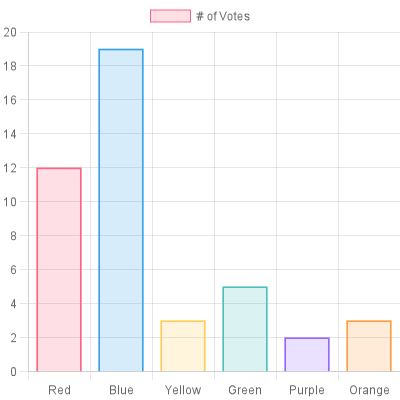
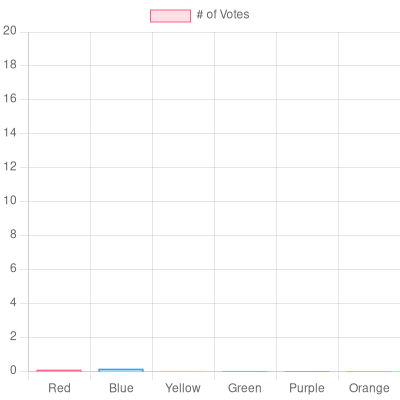
Fix render issue

diff --git a/dist/index.js b/dist/index.js
@@ -82,7 +82,7 @@ class ChartJSNodeCanvas {
      * @param configuration The Chart JS configuration for the chart to render.
      * @param mimeType A string indicating the image format. Valid options are `image/png`, `image/jpeg` (if node-canvas was built with JPEG support) or `raw` (unencoded ARGB32 data in native-endian byte order, top-to-bottom). Defaults to `image/png` for image canvases, or the corresponding type for PDF or SVG canvas.
      */
-    async renderToBuffer(configuration, mimeType = 'image/png') {
+    renderToBuffer(configuration, mimeType = 'image/png') {
         const chart = this.renderChart(configuration);
         return new Promise((resolve, reject) => {
             if (!chart.canvas) {
@@ -108,12 +108,13 @@ class ChartJSNodeCanvas {
         this.renderChart(configuration);
         return new Promise((resolve, reject) => {
             const check = () => {
+                var _a;
                 const { buffers, completed, error, options, urls } = this._animation;
                 if (error) {
                     reject(error);
                 }
                 else if (completed) {
-                    resolve((options === null || options === void 0 ? void 0 : options.renderType) === 'dataurl' ? urls : buffers);
+                    resolve(['dataurl', 'dataurlsync'].includes((_a = options === null || options === void 0 ? void 0 : options.renderType) !== null && _a !== void 0 ? _a : '') ? urls : buffers);
                 }
                 else {
                     setTimeout(() => check(), 200);
@@ -229,7 +230,7 @@ class ChartJSNodeCanvas {
         configuration.options = configuration.options || {};
         configuration.options.responsive = false;
         if (!this._animation) {
-            configuration.options.animation = this._animation;
+            configuration.options.animation = false;
         }
         const context = canvas.getContext('2d');
         global.Image = this._image; // Some plugins use this API

diff --git a/src/animationPlugin.ts b/src/animationPlugin.ts
@@ -12,7 +12,7 @@ type Canvas	= HTMLCanvasElement & {
 
 export type AnimationOptions = {
 	readonly frameRate?: number;
-	readonly renderType?: 'buffer' | 'dataurl';
+	readonly renderType?: 'buffer' | 'dataurl' | 'dataurlsync';
 	readonly callback?: (chart: ChartJS, canvas: Canvas, frame: number) => void;
 };
 
@@ -57,9 +57,8 @@ export class AnimationPlugin implements ChartJSPlugin {
 	}
 
 	public afterDraw(chart: ChartJS): boolean | void {
-		const frameRate = this.options.frameRate ?? 30;
 		const diff = this.difference();
-		const timeHasPassed = (diff - this.vars.prev) > (1000 / frameRate);
+		const timeHasPassed = this.options.frameRate ? (diff - this.vars.prev) > (1000 / this.options.frameRate) : true;
 		if (timeHasPassed && !this.vars.wait) {
 			this.render(chart).catch(this._animationCompleted);
 		}
@@ -89,6 +88,9 @@ export class AnimationPlugin implements ChartJSPlugin {
 			}
 			if (this.options.renderType === 'dataurl') {
 				await this.renderToDataURL(chart);
+			}
+			if (this.options.renderType === 'dataurlsync') {
+				this.renderToDataURL(chart);
 			}
 			if (this.options.callback && chart.canvas) {
 				this.options.callback(chart, chart.canvas as Canvas, this.vars.frame);
@@ -130,6 +132,15 @@ export class AnimationPlugin implements ChartJSPlugin {
 				resolve();
 			});
 		});
+	}
+
+	private renderToDataURLSync(chart: ChartJS): void {
+		if (!chart.canvas) {
+			throw new Error('Canvas is null');
+		}
+		const canvas = chart.canvas as Canvas;
+		const png = canvas.toDataURL('image/png');
+		this._animationURLs!.push(png);
 	}
 
 	private startWaiting(): void {

diff --git a/src/index.ts b/src/index.ts
@@ -158,7 +158,7 @@ export class ChartJSNodeCanvas {
 	 * @param configuration The Chart JS configuration for the chart to render.
 	 * @param mimeType A string indicating the image format. Valid options are `image/png`, `image/jpeg` (if node-canvas was built with JPEG support) or `raw` (unencoded ARGB32 data in native-endian byte order, top-to-bottom). Defaults to `image/png` for image canvases, or the corresponding type for PDF or SVG canvas.
 	 */
-	public async renderToBuffer(configuration: ChartConfiguration, mimeType: MimeType = 'image/png'): Promise<Buffer> {
+	public renderToBuffer(configuration: ChartConfiguration, mimeType: MimeType = 'image/png'): Promise<Buffer> {
 
 		const chart = this.renderChart(configuration);
 		return new Promise<Buffer>((resolve, reject) => {
@@ -190,7 +190,7 @@ export class ChartJSNodeCanvas {
 				if (error) {
 					reject(error);
 				} else if (completed) {
-					resolve(options?.renderType === 'dataurl' ? urls : buffers);
+					resolve(['dataurl', 'dataurlsync'].includes(options?.renderType ?? '') ? urls : buffers);
 				} else {
 					setTimeout(() => check(), 200);
 				}
@@ -320,7 +320,7 @@ export class ChartJSNodeCanvas {
 		configuration.options = configuration.options || {};
 		configuration.options.responsive = false;
 		if (!this._animation) {
-			configuration.options.animation = this._animation;
+			configuration.options.animation = false as any;
 		}
 		const context = canvas.getContext('2d');
 		(global as any).Image = this._image; // Some plugins use this API

diff --git a/src/animation.spec.ts b/src/animation.spec.ts
@@ -35,6 +35,15 @@ describe(ChartJSNodeCanvas.name, () => {
 				],
 				borderWidth: 1
 			}]
+		},
+		options: {
+			animation: {
+				onProgress: (event) => {
+					// tslint:disable-next-line: no-unused-expression
+					(event as any).currentStep;
+				},
+				duration: 2000
+			}
 		}
 	};
 	const chartCallback: ChartCallback = (ChartJS) => {
@@ -45,15 +54,15 @@ describe(ChartJSNodeCanvas.name, () => {
 	it('works animation', async () => {
 		const chartJSNodeCanvas = new ChartJSNodeCanvas({
 			animation: {
-				renderType: 'dataurl',
-				frameRate: 30
+				renderType: 'dataurlsync',
+				// frameRate: 30
 			},
 			width,
 			height,
 			chartCallback
 		});
 		const urls = await chartJSNodeCanvas.renderAnimationFrames(configuration) as Array<string>;
-		assert.equal(urls.length, 26);
+		assert.equal(urls.length > 20, true);
 		global.window = undefined as any;
 	});
 });

diff --git a/src/windowShim.ts b/src/windowShim.ts
@@ -1,18 +1,28 @@
 const requestAnimation = (() => {
 	// tslint:disable-next-line: no-let
 	let lastRunTimestamp = 0;
+	// tslint:disable-next-line: no-let
+	let scheduled = false;
 	const secondInMillis = 1000;
-	const frameRate = 60;
+	const frameRate = 10;
 	const frameDuration = secondInMillis / frameRate;
 	return (callback: (arg: number) => void) => {
 		const now = Date.now();
-		const runCallback = () => callback(performance.now());
+		const runCallback = () => {
+			scheduled = false;
+			return callback(Date.now());
+		};
 		const difference = now - lastRunTimestamp;
 		lastRunTimestamp = now;
 		if (difference > frameDuration) {
 			runCallback();
 		} else {
-			setTimeout(runCallback, frameDuration - difference);
+			if (scheduled)
+			{
+				return;
+			}
+			scheduled = true;
+			setTimeout(runCallback, frameDuration);
 		}
 	};
 });
